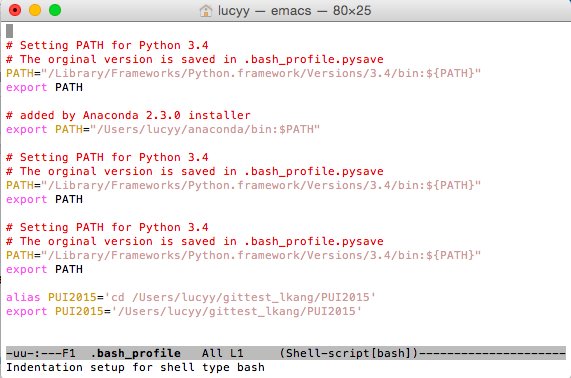
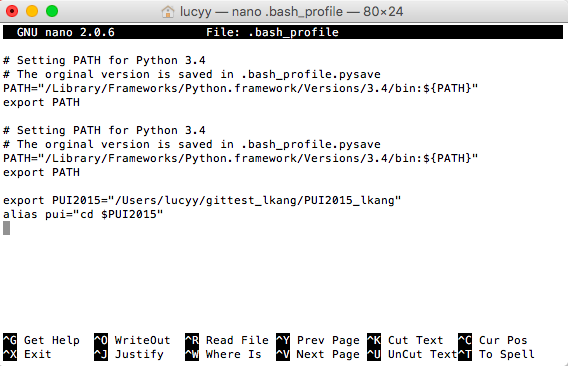
accidentally deleted files

diff --git a/README.md b/README.md
@@ -1,2 +1,15 @@
 # PUI2015_lkang
-HW
+
+Here is what I did to set up my environment.
+
+I created a directory PUI2015 into my directory which came out to be /Users/lucyy/gittest_lkang/PUI2015. 
+
+In the bash_profile emacs window I created an alias using the cd command to get into my directory. 
+I then created an environmental variable $PUI2015 and assigned the path to my directory so that every time I open a new terminal it knows what the $PUI2015 env var is set to.
+
+![Alt text](lkang_bash_profile.png)
+
+In my terminal, I entered 'pwd' which directs me to /Users/lucyy. PUI2015 then leads me to the location of the file. By entering 'pwd' again, the path of the directory location = /Users/lucyy/gittest_lkang/PUI2015. 
+
+
+![Alt text](lkang_terminal.png)
